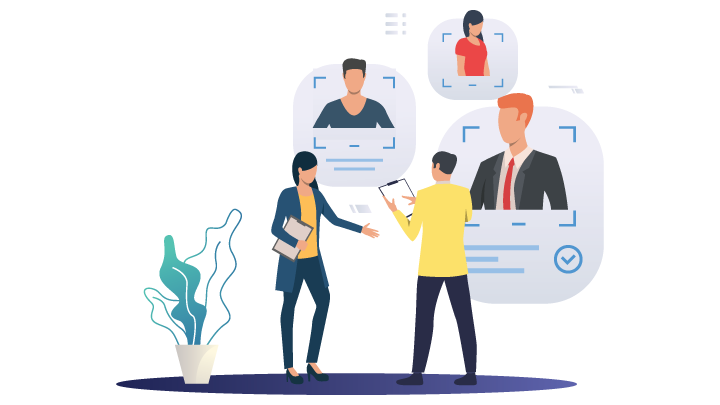
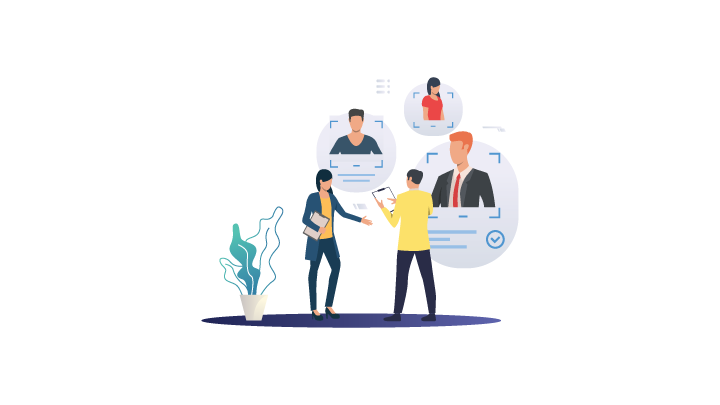
image changes

diff --git a/index.html b/index.html
@@ -20,7 +20,7 @@
 
 
            
-  <title>Right hyre</title>
+  <title>DreamJobs.in</title>
 </head>
 
 <body>
@@ -28,8 +28,9 @@
 		  <nav class="header-fixed">
 		    <div class="nav-wrapper white">
 		      <a href="index.html" class="brand-logo-label">
-            <i class="material-icons" style="font-size: 40px;">how_to_reg</i>
-            <span style="color: #1a73e8;">right</span>hyre
+<!--             <i class="material-icons" style="font-size: 40px;">how_to_reg</i>
+            <span style="color: #1a73e8;">right</span>hyre -->
+            <img src="./images/dream_jobs_logo.png" style="height: 40px;" alt="dream jobs.in brand logo">
           </a>
 		      
           <a href="#" data-target="mobile-demo" class="sidenav-trigger">
@@ -69,9 +70,9 @@
 		    </div>
 		  </nav>
 		  <div class="sidenav" id="mobile-demo">
-        <a href="index.html" class="brand-logo-label" style="margin-left: 4.5em;"><span class="green-text">ryt</span>hire</a>
+        <a href="index.html" class="brand-logo-label" style="margin-left: 1.5em; margin-top:20px;"><img src="./images/dream_jobs_logo.png" style="height: 40px;" alt="dream jobs.in brand logo">
 			  <ul>
-          <li style="right: 0; text-align: right; position: absolute; margin-top: -45px;"><a id="close-side-nav" class="sidenav-close">X</a></li>
+          <li style="right: 0; text-align: right; position: absolute; margin-top: -150px;"><a id="close-side-nav" class="sidenav-close">X</a></li>
 			    <li>
             <a onclick="loadSection(1)">Recruiters On Demand
             </a>
@@ -117,7 +118,7 @@
             </div>
           </div>
           <div class="col-50" style="order: 2;">
-            <img data-aos="fade-up" style="height: auto; margin-left: auto;margin-right:auto;width: 50%;" src="./images/staff.gif">
+            <img data-aos="fade-up" style="height: auto; margin-left: auto;margin-right:auto;width: 100%;" src="./images/scale_staff.png">
           </div>
         </div>
       </div>
@@ -159,7 +160,7 @@
             </div>
           </div>
           <div class="col-50" style="order:2;">
-            <img data-aos="fade-up" style="height: auto; margin-left: auto;margin-right:auto;width: 100%;" src="./images/staffing.gif">
+            <img data-aos="fade-up" style="height: auto; margin-left: auto;margin-right:auto;width: 75%;" src="./images/staffing.gif">
           </div>
         </div>
       </div>
@@ -181,7 +182,7 @@
           </div>
           <div class="col-50" style="order:2;">
             <!--       <img src="https://onepercentresume.com/wp-content/uploads/2020/08/resumedesign1.png"> -->
-            <img data-aos="fade-up" style="height: auto; margin-left: auto;margin-right:auto;width: 50%;" src="./images/staff.gif">
+            <img data-aos="fade-up" style="height: auto; margin-left: auto;margin-right:auto;width: 100%;" src="./images/contractual_staff.png">
           </div>
         </div>
       </div>
@@ -261,14 +262,14 @@
     <section class="wrapper" style="background: #fff;">
       <div class="flex centerhalf" style="padding-top: 2%; padding-bottom: 5%;">
         <div class="col-33">
-          <img src="./images/staff.gif" style="height: auto; margin-left: auto;margin-right: auto;width: 50%;">
+          <img src="./images/blue_clock.gif" style="height: auto; margin-left: auto;margin-right: auto;width: 50%;">
           <!-- Moving clock -->
           <h3 class="col-33h3">Get a full-time employee without having to hire one</h3>
           <br>
           <p class="col-33p" style="padding-top: 7px;">The recruiters will dedicatedly work for your company and your goals. Recruiters will follow your current hiring processes and strategy so there is no disruption to your talent program.</p>
         </div>
         <div class="col-33">
-          <img src="./images/staff.gif" style="height: auto; margin-left: auto;margin-right: auto;width: 50%;">
+          <img src="./images/play-pause-blue.gif" style="height: auto; margin-left: auto;margin-right: auto;width: 50%;">
           <!-- Play pause change -->
           <br><br>
           <h3 class="col-33h3">Pause and restart anytime</h3>
@@ -276,7 +277,7 @@
           <p class="col-33p">You can pause the service during months of no hiring and restart the service when you feel you have indefinite job roles to fill. Pause the service when you need to and switch it back on when hiring ramps up.</p>
         </div>
         <div class="col-33">
-          <img src="./images/staff.gif" style="height: auto; margin-left: auto;margin-right: auto;width: 50%;">
+          <img src="./images/growth_graph.png" style="height: auto; margin-left: auto;margin-right: auto;width: 50%;">
           <!-- X axis months, Y axis team size graph changing team size -->
           <br><br>
           <h3 class="col-33h3">Scale your team on month to month basis</h3>
@@ -292,7 +293,7 @@
             <h2 id="headerContent" style="font-size: 42px; font-weight:500!important;">All recruitment tools at one place</h2>
             <p style="text-align: justify;">Our service is integrated with major  recruitment tools like Applicant Tracking Systems (ATS), LinkedIn, and other job portals like Glassdoor.com, Seek.com, CareerBuilder.com, and Naukri.com with our personal database of 1.5 Million+ candidates working across industries.</p>                    
           </div>
-          <img src="./images/logo.svg">
+          <img src="./images/tools_we_use.png">
       </div>
     </section>
 
@@ -300,7 +301,7 @@
       <div class="flex center">
         <!-- Zero icon -->
         <div class="col-50" style="order:1;">
-          <img data-aos="fade-up" style="height: auto; margin-left: auto;margin-right:auto;width: 50%;" src="./images/staff.gif">
+          <img data-aos="fade-up" style="height: auto; margin-left: auto;margin-right:auto;width: 100%;" src="./images/zero_cost.png">
         </div>
         <div class="col-50 col-50padding" style="order:1;">
           <div class="col-50text" data-aos="fade-up">
@@ -392,7 +393,7 @@
     <section class="wrapper what-is-talent-management" data-section-name="what-is-on-demand-recruiter" style="background-color: #f9faf8;">
       <div class="flex center">
         <div class="col-50">
-          <img data-aos="fade-up" style="height: auto; margin-left: auto;margin-right:auto;width: 100%;" src="./images/reimagine-work.jpg">
+          <img data-aos="fade-up" style="height: auto; margin-left: auto;margin-right:auto;width: 100%;" src="./images/reimagine-work.png">
         </div>
         <div class="col-50 col-50padding" style="order:1;">
           <div class="col-50text" data-aos="fade-up">
@@ -424,7 +425,7 @@
           <p class="col-33p">Our seasoned experts can consult you on  designing the right HR strategy and processes in line with the best practices. Our specialists can assist and train your HR team and help them streamline their processes</p>
         </div>
         <div class="col-33">
-          <img src="./images/digital-transformation.jpg" style="height: auto; margin-left: auto;margin-right: auto;width: 50%;">
+          <img src="./images/digital-transformation.png" style="height: auto; margin-left: auto;margin-right: auto;width: 50%;">
           <br>
           <h3 class="col-33h3">Digital Transformation</h3>
           <br>
@@ -457,7 +458,7 @@
           </div>
         </div>
         <div class="col-50" style="order:2;">
-          <img data-aos="fade-up" style="height: auto; margin-left: auto;margin-right:auto;width: 100%;" src="./images/talent-management-save-time-and-money.jpg">
+          <img data-aos="fade-up" style="height: auto; margin-left: auto;margin-right:auto;width: 100%;" src="./images/talent-management-save-time-and-money.png">
         </div>
       </div>
     </section>
@@ -508,22 +509,22 @@
               <p class="col-20p">1. Share your requirements- role, skills, and let us know your preferred candidate profile.</p>
             </div>
             <div class="col-20">
-              <img src="./images/staff.gif" style="height: auto; margin-left: auto;margin-right: auto;width: 50%;">
+              <img src="./images/candidates_database.png" style="height: auto; margin-left: auto;margin-right: auto;width: 100%;">
               <br>
               <p class="col-20p">2. Our experts will source some great candidate profiles utilizing our database of 1.5 Million+ along with cutting -edge recruitment tools.</p>
             </div>
             <div class="col-20">
-              <img src="./images/staff.gif" style="height: auto; margin-left: auto;margin-right: auto;width: 50%;">
+              <img src="./images/unparalled_expertise.png" style="height: auto; margin-left: auto;margin-right: auto;width: 100%;">
               <br>
               <p class="col-20p">3. Our recruitment tools and unparalleled expertise will screen through each application to offer you quality candidates.</p>
             </div>
             <div class="col-20">
-              <img src="./images/staff.gif" style="height: auto; margin-left: auto;margin-right: auto;width: 50%;">
+              <img src="./images/interview_scheduling.png" style="height: auto; margin-left: auto;margin-right: auto;width: 100%;">
               <br>
               <p class="col-20p">4. Liked the candidates? Let us know your preferred day and time to set up the interview process. Don’t worry we will make sure the process is seamless and experiential.</p>
             </div>                    
             <div class="col-20">
-              <img src="./images/staff.gif" style="height: auto; margin-left: auto;margin-right: auto;width: 50%;">
+              <img src="./images/extended_support.png" style="height: auto; margin-left: auto;margin-right: auto;width: 100%;">
               <br>
               <p class="col-20p">5. Our service doesn’t stop here- We will extend our support beyond hiring and make sure that the candidate is onboarded with your organization.</p>
             </div>                    
@@ -535,7 +536,7 @@
     <section class="wrapper what-role-recruitment-agency-play" data-section-name="what-is-on-demand-recruiter" style="background-color: #f9faf8;">
       <div class="flex center">
         <div class="col-50">
-          <img data-aos="fade-up" style="height: auto; margin-left: auto;margin-right:auto;width: 50%;" src="./images/staff.gif">
+          <img data-aos="fade-up" style="height: auto; margin-left: auto;margin-right:auto;width: 100%;" src="./images/choose_right_candidate.png">
         </div>
         <div class="col-50 col-50padding" style="order:1;">
           <div class="col-50text" data-aos="fade-up">
@@ -565,14 +566,14 @@
           </div>
         </div>
         <div class="col-50" style="order:2;">
-          <img data-aos="fade-up" style="height: auto; margin-left: auto;margin-right:auto;width: 50%;" src="./images/staff.gif">
+          <img data-aos="fade-up" style="height: auto; margin-left: auto;margin-right:auto;width: 100%;" src="./images/hiring_process.png">
         </div>
       </div>
     </section>
     <section class="wrapper why-do-recruitment-with-us" data-section-name="why-get-on-demand-recruiter" style="background-color: #f9faf8;">
       <div class="flex center">
         <div class="col-50">
-          <img data-aos="fade-up" style="height: auto; margin-left: auto;margin-right:auto;width: 50%;" src="./images/staff.gif">
+          <img data-aos="fade-up" style="height: auto; margin-left: auto;margin-right:auto;width: 100%;" src="./images/save_money.png">
         </div>
         <div class="col-50 col-50padding" style="order:1;">
           <div class="col-50text" data-aos="fade-up">
@@ -602,7 +603,7 @@
     <section class="wrapper what-is-contract-recruitment" data-section-name="what-is-on-demand-recruiter">
       <div class="flex center">
         <div class="col-50">
-          <img data-aos="fade-up" style="height: auto; margin-left: auto;margin-right:auto;width: 50%;" src="./images/staff.gif">
+          <img data-aos="fade-up" style="height: auto; margin-left: auto;margin-right:auto;width: 100%;" src="./images/awesome_hiring_experience.png">
         </div>
         <div class="col-50 col-50padding" style="order:1;">
           <div class="col-50text" data-aos="fade-up">
@@ -636,7 +637,7 @@
           </div>
         </div>
         <div class="col-50" style="order:2;">
-          <img data-aos="fade-up" style="height: auto; margin-left: auto;margin-right:auto;width: 50%;" src="./images/staff.gif">
+          <img data-aos="fade-up" style="height: auto; margin-left: auto;margin-right:auto;width: 100%;" src="./images/flexible_workforce.png">
         </div>
       </div>
     </section>
@@ -644,7 +645,7 @@
     <section class="wrapper what-is-contract-recruitment" data-section-name="what-is-on-demand-recruiter">
       <div class="flex center">
         <div class="col-50">
-          <img data-aos="fade-up" style="height: auto; margin-left: auto;margin-right:auto;width: 50%;" src="./images/staff.gif">
+          <img data-aos="fade-up" style="height: auto; margin-left: auto;margin-right:auto;width: 100%;" src="./images/save_time_and_money.png">
         </div>
         <div class="col-50 col-50padding" style="order:1;">
           <div class="col-50text" data-aos="fade-up">
@@ -674,7 +675,7 @@
           </div>
         </div>
         <div class="col-50" style="order:2;">
-          <img data-aos="fade-up" style="height: auto; margin-left: auto;margin-right:auto;width: 50%;" src="./images/staff.gif">
+          <img data-aos="fade-up" style="height: auto; margin-left: auto;margin-right:auto;width: 100%;" src="./images/productive_working.png">
         </div>
       </div>
     </section>
@@ -697,16 +698,16 @@
 <footer>
           <div class="container">
             <div class="row"></div>
-            <div class="row">
+            <div class="row center justify">
               <div class="col l4 s12">
                 <a class="brand-logo-label">
-                  <span style="color: #1a73e8;">right</span>hyre
+                  <span style="color: #1a73e8;">dream</span>jobs.in
                 </a>
-                <p>Company tag line. More information about the biodatabuilder website.</p>
+                <p>...one step ahead.</p>
               </div>
               <div class="col l3 offset-l1 s12">
                 <ul>
-                  <li><a href="about-us.html#about-right-hyre" class="header-label">About Us</a></li>
+                  <li><a href="about-us.html#about-dream-jobs.in" class="header-label">About Us</a></li>
                   <li><a href="about-us.html#why-us" class="header-label">Why Us</a></li>
                 </ul>
               </div>
@@ -722,7 +723,7 @@
           </div>
           <div class="footer-copyright">
             <div class="container">
-            © 2020 Copyright <span style="color: #1a73e8;">right</span>hyre</a>.com
+            © 2020 Copyright <span style="color: #1a73e8;">dream</span>jobs</a>.in
             <a class="grey-text text-lighten-4 right" href="#!">More Links</a>
             </div>
           </div>

diff --git a/about-us.html b/about-us.html
@@ -19,16 +19,17 @@
 
 
            
-  <title>Right hyre</title>
+  <title>DreamJobs.in</title>
 </head>
 
 <body>
 <header>
 		  <nav class="header-fixed">
-		    <div class="nav-wrapper white">
-		      <a href="index.html" class="brand-logo-label">
-            <i class="material-icons" style="font-size: 40px;">how_to_reg</i>
-            <span style="color: #1a73e8;">right</span>hyre
+        <div class="nav-wrapper white">
+          <a href="index.html" class="brand-logo-label">
+<!--             <i class="material-icons" style="font-size: 40px;">how_to_reg</i>
+            <span style="color: #1a73e8;">right</span>hyre -->
+            <img src="./images/dream_jobs_logo.png" style="height: 40px; margin-top: 10px" alt="dream jobs.in brand logo">
           </a>
 		      
           <a href="#" data-target="mobile-demo" class="sidenav-trigger">
@@ -68,9 +69,9 @@
 		    </div>
 		  </nav>
 		  <div class="sidenav" id="mobile-demo">
-        <a href="index.html" class="brand-logo-label" style="margin-left: 4.5em;"><span class="green-text">ryt</span>hire</a>
-			  <ul>
-          <li style="right: 0; text-align: right; position: absolute; margin-top: -45px;"><a id="close-side-nav" class="sidenav-close">X</a></li>
+        <a href="index.html" class="brand-logo-label" style="margin-left: 1.5em; margin-top:20px;"><img src="./images/dream_jobs_logo.png" style="height: 40px;" alt="dream jobs.in brand logo">
+        <ul>
+          <li style="right: 0; text-align: right; position: absolute; margin-top: -150px;"><a id="close-side-nav" class="sidenav-close">X</a></li>
           <li>
             <a href="index.html?slide=1">Recruiters On Demand
             </a>
@@ -98,7 +99,7 @@
       <div class="center" style="padding-top: 2%; padding-bottom: 5%;" data-aos="fade-up">
           <div style="text-align: center; padding-left: 15%; padding-right: 15%">
             <h2 id="headerContent" style="font-size: 42px; font-weight:500!important;">We match great talent with great companies</h2>
-            <p style="text-align: justify;">To compete in today’s competitive, disruptive environment and drive business value requires focusing on talent to ensure that the right employee is matched to the right role that will ultimately create the most value.<br>At Right Hyre we feel that while talent alignment is challenging, when it’s done right, rapidly and at scale, the outcome can prove to be a significant performance differentiator.<br>Being one of the most experienced recruitment companies in India since 2006, RightHyre has been able to bring value to multiple clients and partners In India, Singapore, Australia, and other countries in APAC.</p>                    
+            <p style="text-align: justify;">To compete in today’s competitive, disruptive environment and drive business value requires focusing on talent to ensure that the right employee is matched to the right role that will ultimately create the most value.<br>At Dream Jobs we feel that while talent alignment is challenging, when it’s done right, rapidly and at scale, the outcome can prove to be a significant performance differentiator.<br>Being one of the most experienced recruitment companies in India since 2006, <b>DREAM JOBS STAFFING SOLUTION PVT. LTD.</b> has been able to bring value to multiple clients and partners In India, Singapore, Australia, and other countries in APAC.</p>                    
           </div>
       </div>
     </section>
@@ -106,7 +107,7 @@
     <section class="wrapper on-demand-recruiter-advise" data-section-name="on-demand-recruiter-advise">
       <div class="center" style="padding-top: 2%; padding-bottom: 5%;" data-aos="fade-up">     
           <div style="text-align: center; padding-left: 15%; padding-right: 15%">
-            <h2 id="headerContent" style="font-size: 42px; font-weight:500!important;">Why should Right Hyre be your partner of choice?</h2>
+            <h2 id="headerContent" style="font-size: 42px; font-weight:500!important;">Why should Dream Jobs be your partner of choice?</h2>
             <ul style="text-align: justify;">
                 <li style="list-style-type: disc;">We understand your organization’s ambition and deconstruct what will drive value to the job role you are looking to hire.</li>
                 <li style="list-style-type: disc;">Our state of the art recruitment approach saves time and simplifies the process.</li>
@@ -126,16 +127,16 @@
 <footer>
           <div class="container">
             <div class="row"></div>
-            <div class="row">
+            <div class="row center justify">
               <div class="col l4 s12">
                 <a href="index.html" class="brand-logo-label">
-                  <span style="color: #1a73e8;">right</span>hyre
+                  <span style="color: #1a73e8;">dream</span>jobs.in
                 </a>
-                <p>Company tag line. More information about the biodatabuilder website.</p>
+                <p>...one step ahead.</p>
               </div>
               <div class="col l3 offset-l1 s12">
                 <ul>
-                  <li><a href="#about-right-hyre" class="header-label">About Us</a></li>
+                  <li><a href="#about-dream-jobs.in" class="header-label">About Us</a></li>
                   <li><a href="#why-us" class="header-label">Why Us</a></li>
                 </ul>
               </div>
@@ -151,8 +152,7 @@
           </div>
           <div class="footer-copyright">
             <div class="container">
-            © 2020 Copyright <span style="color: #1a73e8;">right</span>hyre</a>.com
-            <a class="grey-text text-lighten-4 right" href="#!">More Links</a>
+            © 2020 Copyright <span style="color: #1a73e8;">dream</span>jobs</a>.in
             </div>
           </div>
 </footer>    
